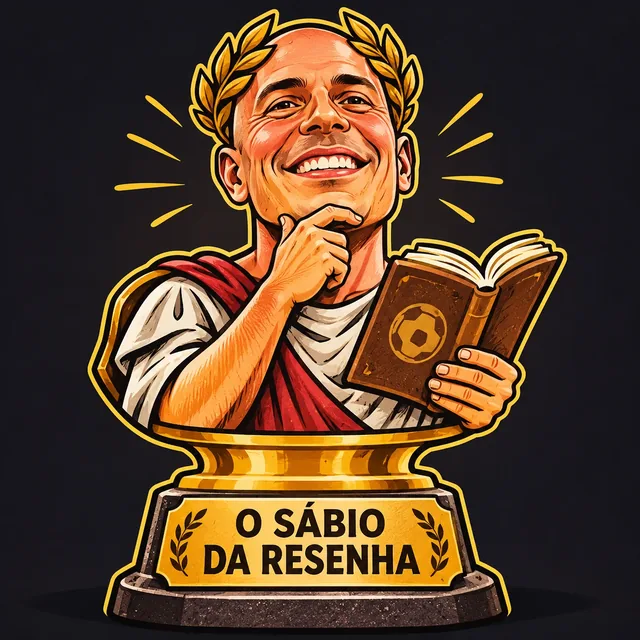
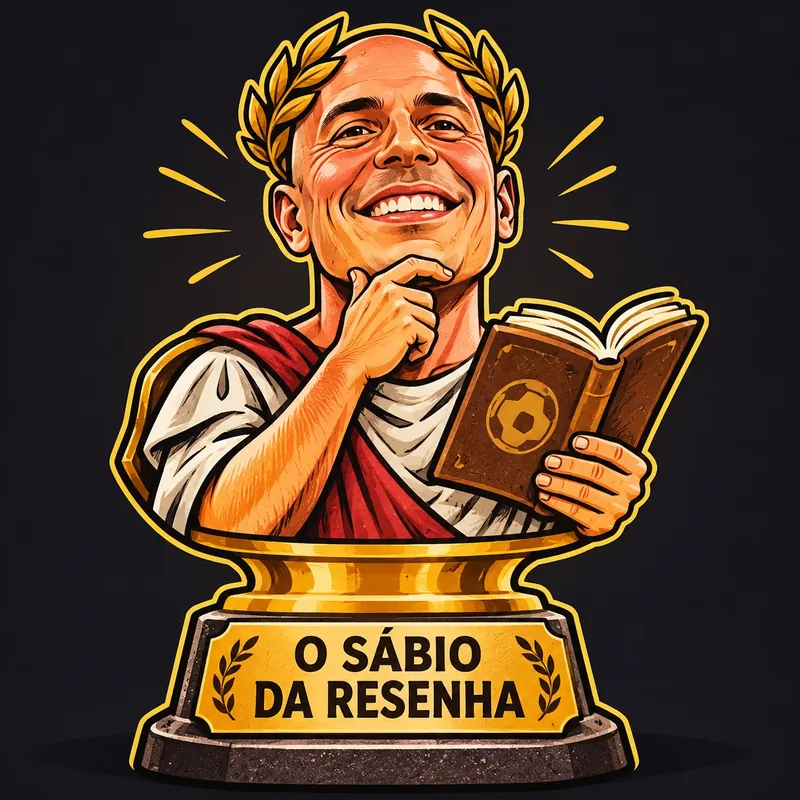
Papo Reto: troféu do ranking grande, abaixo do título
A ilustração sai do lado do título e vai para baixo do texto, em tamanho
grande (até 380px na coluna do desktop, 240–300px no celular/tablet).
O troféu do Sábio é reexportado em 800×800 para ficar nítido.

Claude-Session: https://claude.ai/code/session_01W1pgBGMPMKdA9gTW2KLxm7

diff --git a/src/papo-reto/components/RankingBoard.tsx b/src/papo-reto/components/RankingBoard.tsx
@@ -110,8 +110,8 @@ export function RankingBoard({
   return (
     <div className="lg:grid lg:grid-cols-[minmax(0,5fr)_minmax(0,7fr)] lg:gap-10">
       <header className="mb-4 lg:sticky lg:top-24 lg:self-start">
-        <div className="flex items-start gap-3 sm:gap-5">
-          <div className="min-w-0 flex-1">
+        <div>
+          <div>
             <p className={`text-xs font-extrabold uppercase tracking-[0.18em] ${accent}`}>
               {kicker}
             </p>
@@ -120,17 +120,6 @@ export function RankingBoard({
             </h2>
             <p className="mt-1.5 text-lg font-bold leading-snug text-yellow">{copy.subtitle}</p>
           </div>
-          {illustration ? (
-            <Image
-              src={illustration}
-              alt={copy.illustrationAlt ?? ""}
-              width={320}
-              height={320}
-              sizes="(min-width: 640px) 144px, 104px"
-              loading="eager"
-              className="size-[104px] shrink-0 rounded-2xl object-cover sm:size-36"
-            />
-          ) : null}
         </div>
         <p className="mt-1.5 max-w-2xl text-[15px] leading-snug text-muted">{copy.description}</p>
         {results && isStatic ? (
@@ -168,6 +157,18 @@ export function RankingBoard({
           <p className="mt-3 rounded-xl border border-line bg-surface px-3 py-2 text-sm font-semibold" role="note">
             A votação deste ranking está pausada. Os resultados continuam visíveis.
           </p>
+        ) : null}
+        {illustration ? (
+          // Ilustração grande do ranking (troféu). No desktop ocupa a coluna fixa ao lado da lista.
+          <Image
+            src={illustration}
+            alt={copy.illustrationAlt ?? ""}
+            width={800}
+            height={800}
+            sizes="(min-width: 1024px) 380px, (min-width: 640px) 300px, 240px"
+            loading="eager"
+            className="mx-auto mt-5 aspect-square w-full max-w-[240px] rounded-3xl object-cover sm:max-w-[300px] lg:mx-0 lg:max-w-[380px]"
+          />
         ) : null}
       </header>
 

diff --git a/docs/papo-reto.md b/docs/papo-reto.md
@@ -96,8 +96,8 @@ No modo demonstração a ordem é simulada e sinalizada como "Ordem simulada".
 
 ## Ilustrações dos rankings
 
-A ilustração ao lado do título de cada ranking (ex.: o troféu do Falou Merda) fica em
-`public/papo-reto/rankings/<ranking>.webp` (ou `.png`/`.avif`), quadrada (ex.: 640×640).
+A ilustração grande abaixo do título de cada ranking (ex.: o troféu do Falou Merda) fica em
+`public/papo-reto/rankings/<ranking>.webp` (ou `.png`/`.avif`), quadrada (ex.: 800×800).
 É detectada sozinha no `dev`/`build`; sem arquivo, nada aparece. O texto alternativo fica em
 `illustrationAlt` (`src/papo-reto/config/rankings.ts`).
 

diff --git a/public/papo-reto/rankings/README.md b/public/papo-reto/rankings/README.md
@@ -6,4 +6,4 @@ Ilustração exibida ao lado do título de cada ranking. Nome do arquivo = slug 
 - `sabio.webp`
 - `bala-do-veio.webp`
 
-Quadrada (ex.: 640×640). O `npm run dev`/`npm run build` detecta os arquivos sozinho; sem arquivo, nada é exibido.
+Quadrada (ex.: 800×800). O `npm run dev`/`npm run build` detecta os arquivos sozinho; sem arquivo, nada é exibido.
